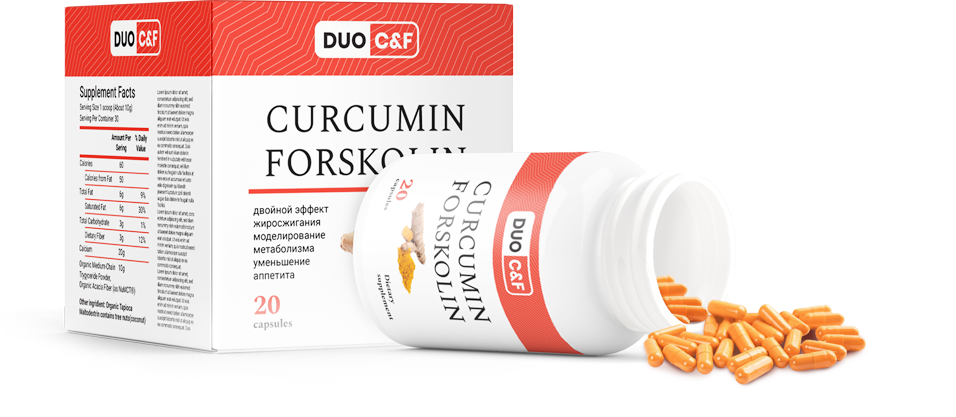
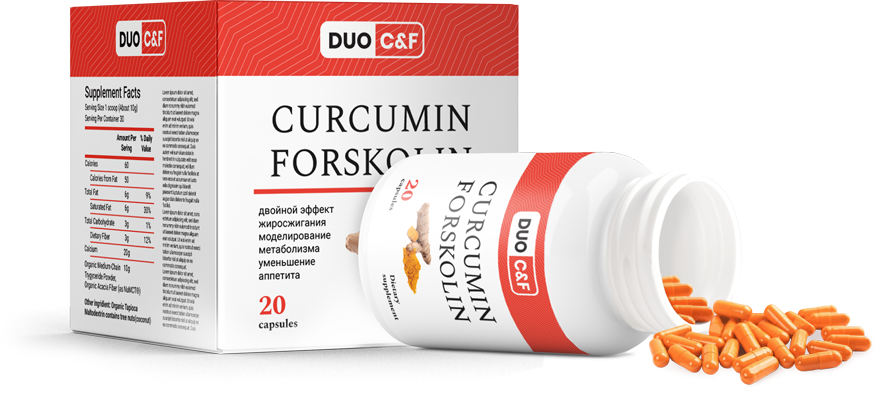
new pack

diff --git a/app/components/1_header/1_header.scss b/app/components/1_header/1_header.scss
@@ -87,7 +87,7 @@
   &__pack{
     .pack{
       position: absolute;
-      left: -195px;
+      left: -204px;
       top: 51px;
       z-index: 2;
     }
